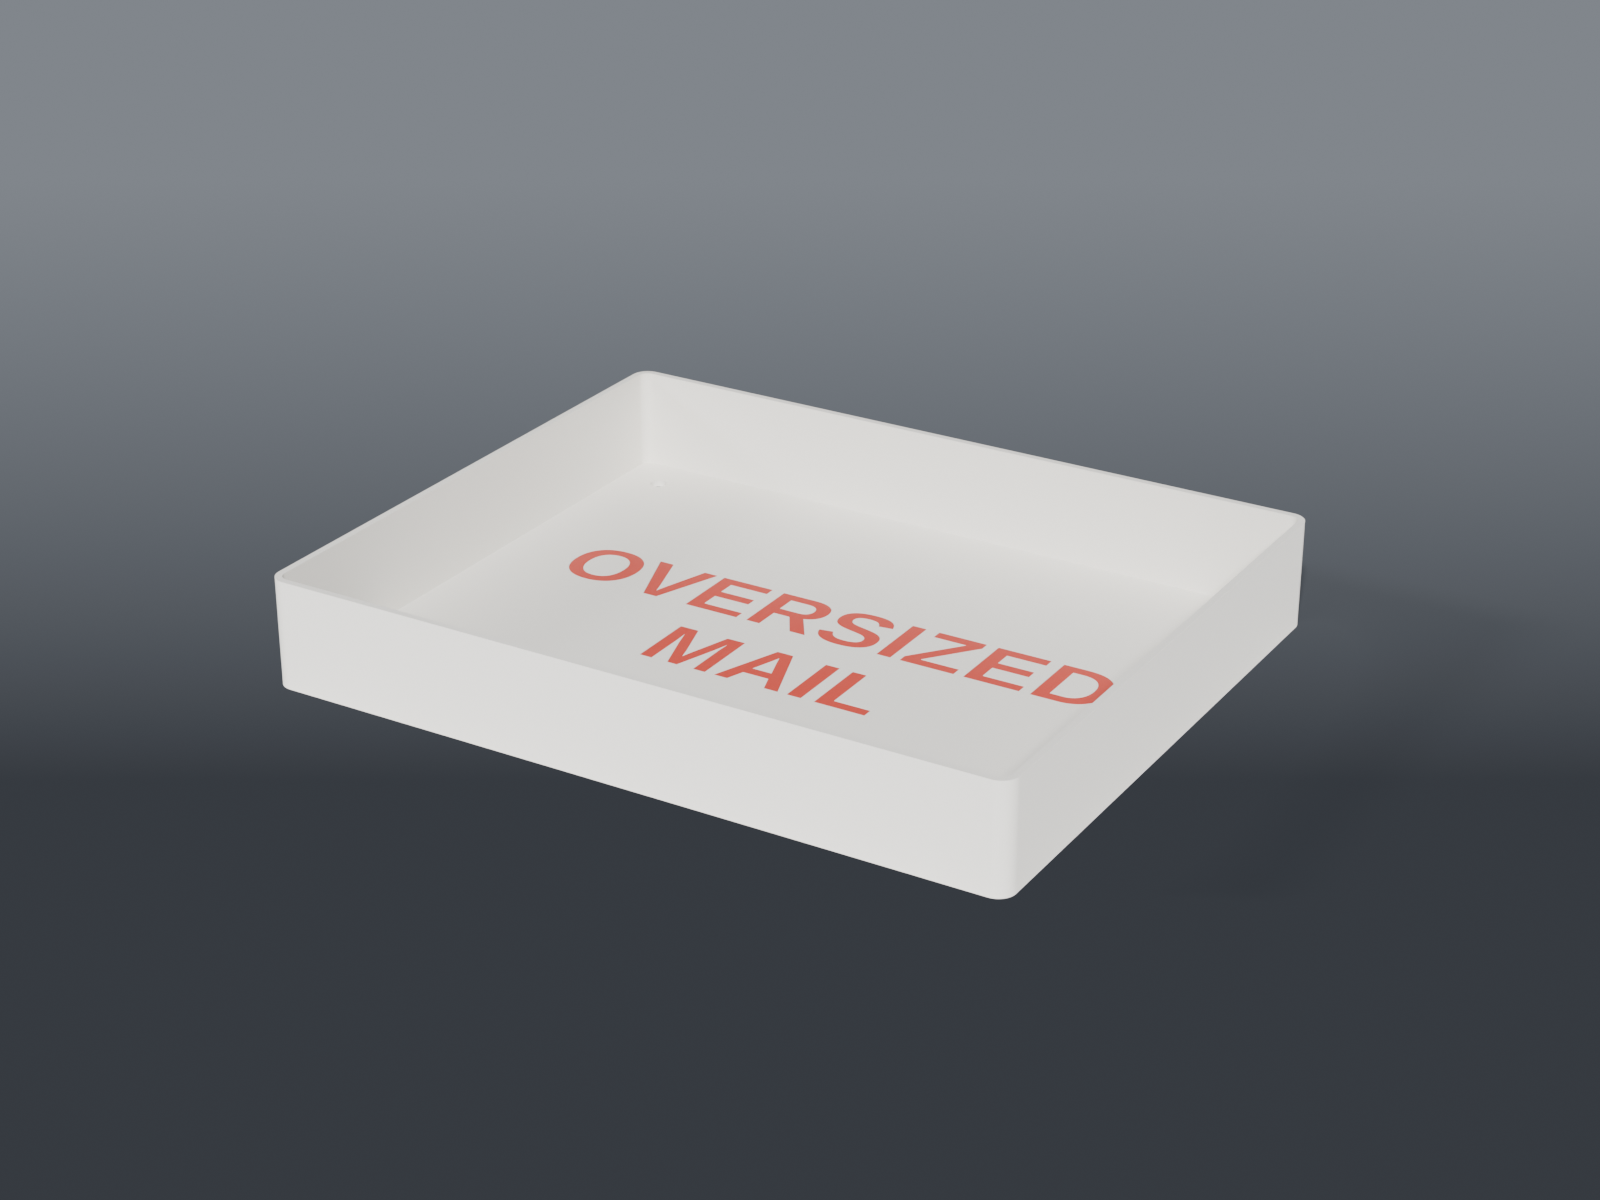
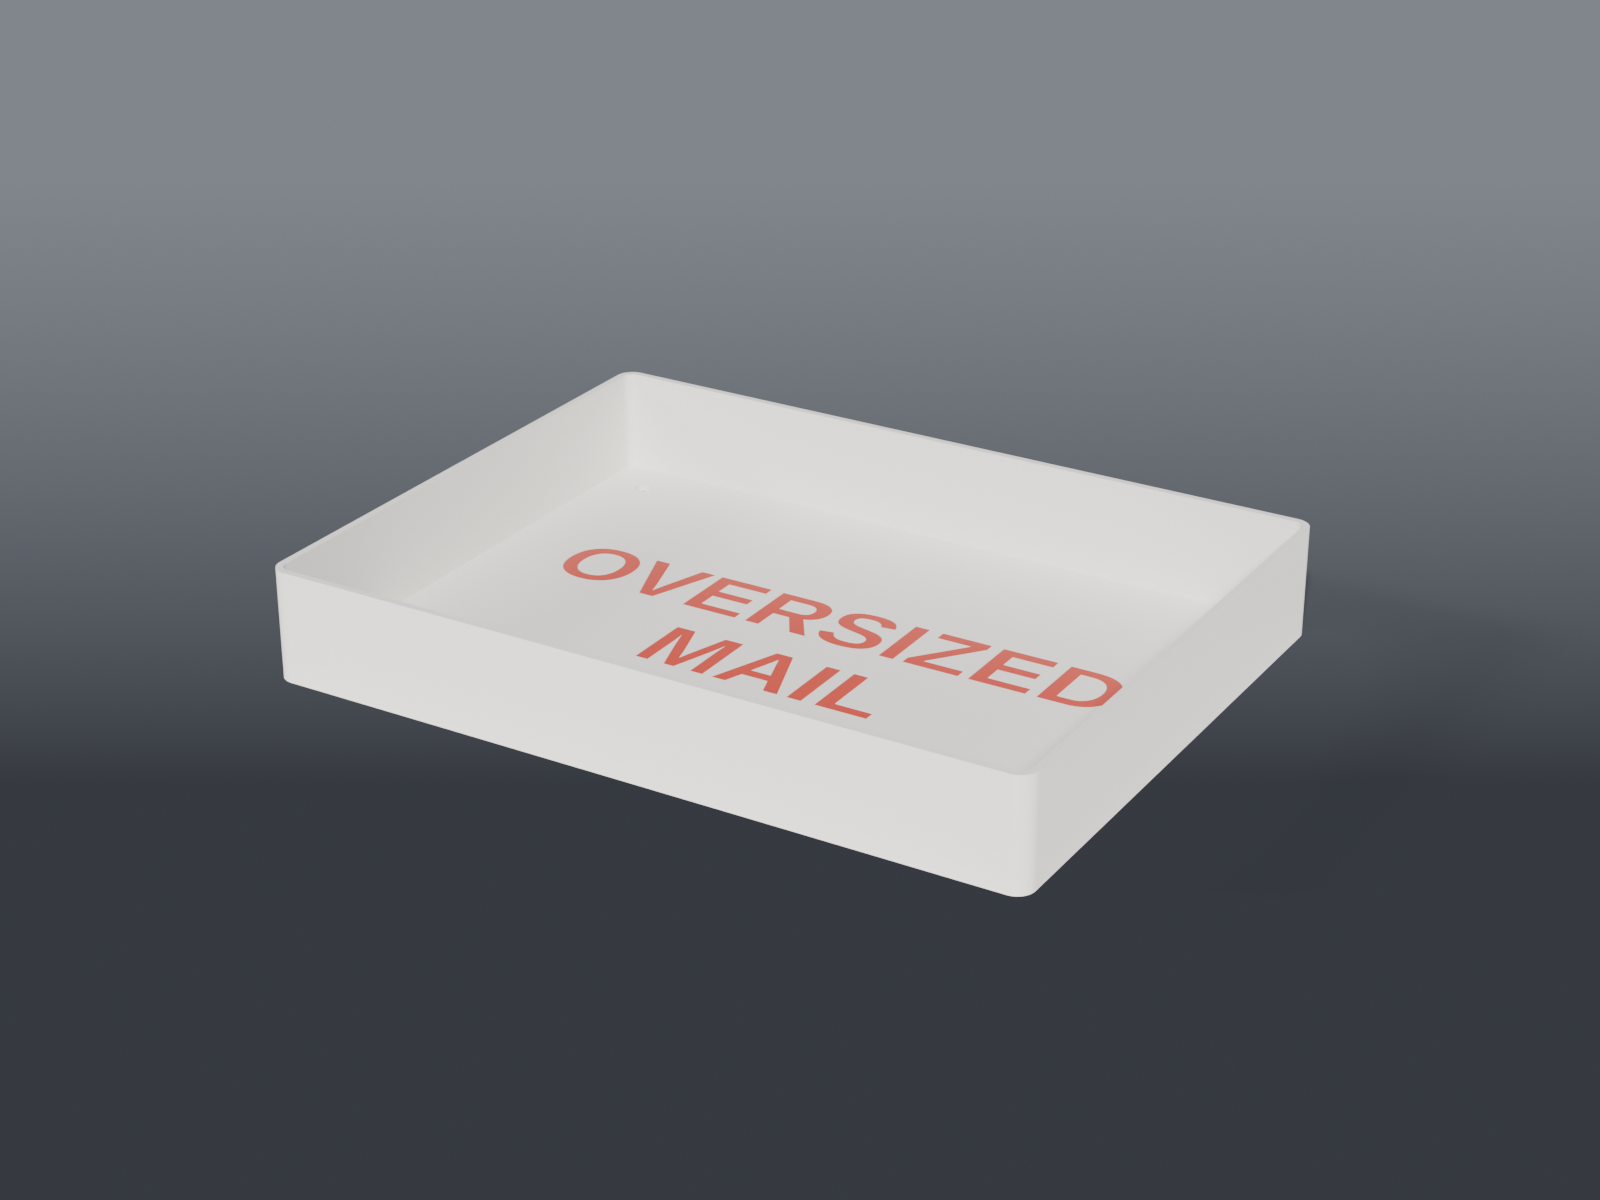
fix(mail-holder): short side 200 so the two-colour prime tower fits beside it

diff --git a/mail-holder/README.md b/mail-holder/README.md
@@ -8,14 +8,14 @@ A **flat tray for oversized mail** that sits on the shelf below the mail slot, w
 
 | Part | File | Size | Print |
 |---|---|---|---|
-| **Tray** | `mail_holder.scad` | 265 × 215 × 38 mm (1.5 in) | ×1 — floor down, no supports |
+| **Tray** | `mail_holder.scad` | 265 × 200 × 38 mm (1.5 in) | ×1 — floor down, no supports |
 | **Letters** | `mail_holder_inlay.scad` | fills the 0.8 mm label pocket in the floor | with the tray, second colour |
 
-**Two colours:** load both STLs at the same origin, then give the tray one filament and the letters another. The letters fill a 0.8 mm pocket in the floor's top face, flush, so the colour change is only the top few layers of the floor. Print the tray alone for a one-colour engraved label.
+**Two colours:** load the tray, then add the letters to it **as a part of the same object**, not as a second object, or auto-arrange separates them. Give the tray one filament and the letters another. The letters fill a 0.8 mm pocket in the floor's top face, flush, so the colour change is only the top few layers of the floor. Print the tray alone for a one-colour engraved label.
 
 ## Sizes
 
-The footprint is the largest rectangle that fits the U1's 270 × 270 mm bed with room for a brim. Mail lies flat. A 9 × 12 inch envelope, 229 × 305 mm, overhangs the long side a little, as in any tray.
+The 265 mm length is the user's. The short side is 200 so the U1's 270 × 270 bed still has a 70 mm strip beside the tray for the **prime tower a two-colour print needs**. At 215 (v1.0.0), auto-arrange pushed the tray off the plate. Mail lies flat. A 9 × 12 inch envelope, 229 × 305 mm, overhangs the long side a little, as in any tray.
 
 - **Walls:** 2.4 mm. **Floor:** 2.4 mm, which leaves 1.6 under the label.
 - **Drain holes:** four, 6 mm, in the corners clear of the lettering, since an outside mail slot lets rain in.

diff --git a/README.md b/README.md
@@ -42,7 +42,7 @@ A collection of 3D-printable models authored as **OpenSCAD source**. STLs are re
 | <img src="tool-carousel/preview.png" width="150"> | [**Tool carousel**](tool-carousel/) | Spinning three-tier carousel on two 608 bearings for the hand tools by the board: drivers, bit blocks, picks, brushes and a ring of tweezers. Round base works on a bare desk; drops into a 3×3 Gridfinity dock on the bench. |
 | <img src="chip-vacuum/preview.png" width="150"> | [**Chip-puller vacuum bin**](chip-vacuum/) | 1×2: one cell stands a handheld chip-puller vacuum upright, bottom end down; the other is a low tray, a quarter of the height, for its spare tip and suction cups. Square-cornered pocket so the vacuum's rounded corners stay clear and the flats do the holding. |
 | <img src="fixture-rack/preview.png" width="150"> | [**Fixture rack**](fixture-rack/) | 5×2 storage rack standing three repair fixtures on edge: a heat mat, an RL-605 board holder and a TF5 fixture. Stepped low at the front; every slot walled at both ends so nothing slides out. |
-| <img src="mail-holder/preview.png" width="150"> | [**Oversized mail tray**](mail-holder/) | 265 × 215 × 38 mm tray for the shelf under the mail slot, with OVERSIZED MAIL inlaid in its floor in a second colour so the carrier puts big envelopes there instead of through the slot. |
+| <img src="mail-holder/preview.png" width="150"> | [**Oversized mail tray**](mail-holder/) | 265 × 200 × 38 mm tray for the shelf under the mail slot, with OVERSIZED MAIL inlaid in its floor in a second colour so the carrier puts big envelopes there instead of through the slot. |
 Each model lives in its own directory with the parametric `.scad` source, a `README.md` (dimensions, print settings, parameters), and a Blender `preview.png`.
 
 ## Downloading prints
